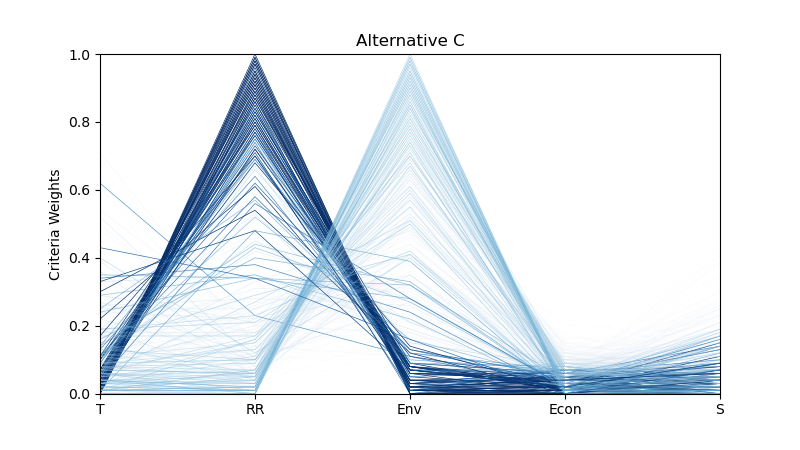
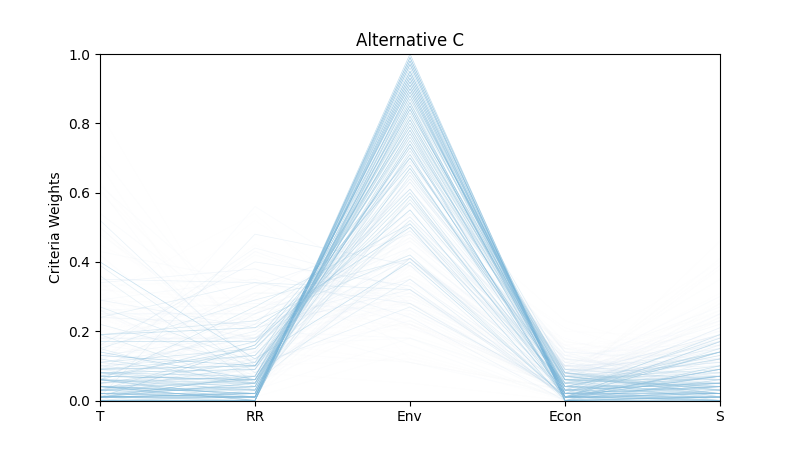
Re-ran line_graph.py with updated energy recovery local weight
Re-ran line_graph.py with the fixed resource recovery local weight.

diff --git a/dmsan/bwaise/line_graph.py b/dmsan/bwaise/line_graph.py
@@ -10,10 +10,11 @@ import os, pickle
 import numpy as np
 import pandas as pd
 from matplotlib import pyplot as plt, lines as mlines, pylab as pl
-from qsdsan.utils import palettes, Color
+from colorpalette import Color
+# from qsdsan.utils import palettes, Color
 from dmsan.bwaise import results_path, figures_path
 
-Guest = palettes['Guest']
+# Guest = palettes['Guest']
 
 
 # %%
